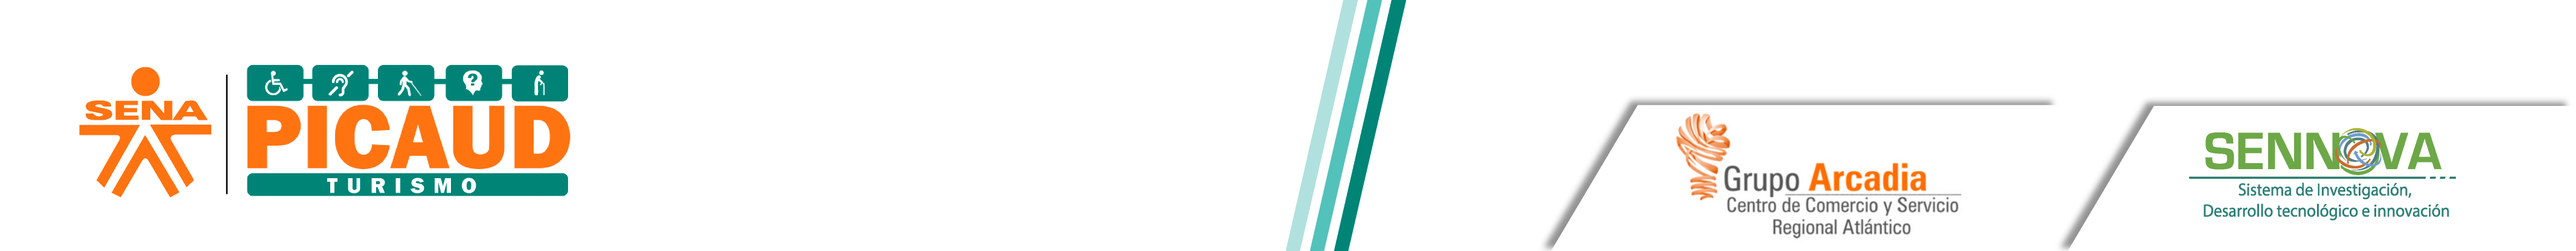
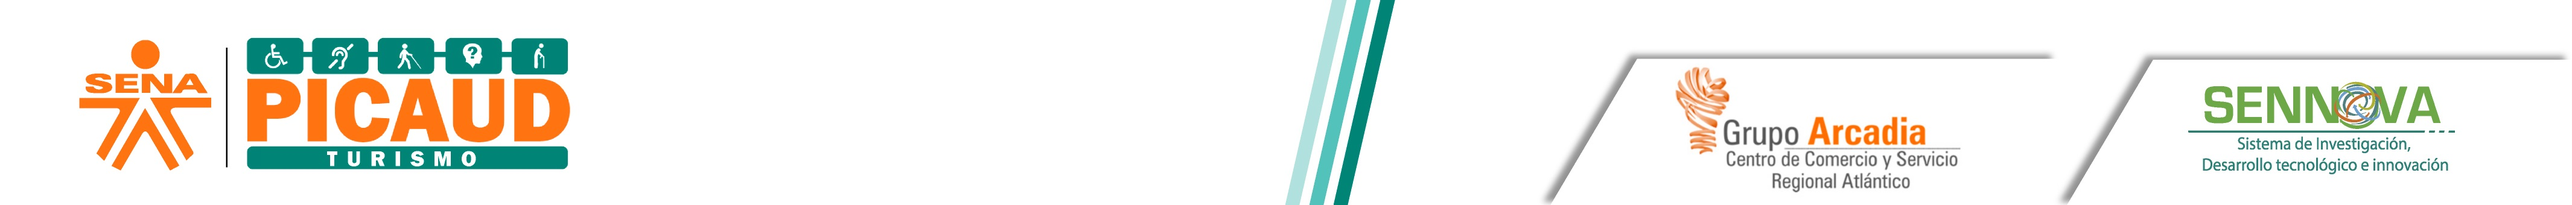
Se inicia consultas a BD

diff --git a/controller/registro.js b/controller/registro.js
@@ -1,0 +1,44 @@
+$(document).ready(function(){
+    llenar_select_tipoid();
+});
+
+function llenar_select_tipoid(){
+
+    var parametros = {
+        "opcion" : "llenar_tipoid"
+    };
+
+    $.ajax({
+        url: "../model/registro.php",
+        type: "POST",
+        data: parametros,
+        success: function(resp)
+        {
+            try {
+                var json         = eval("(" + resp + ")");
+                cargar_select("sel_tipoid", json);
+                $("#sel_tipoid").on("change", function(){
+                    console.log($("#sel_tipoid").val());
+                });
+            } catch (error) {
+                error_try(error);
+            }
+            
+            
+        }
+    });
+}
+
+function error_try(error){
+    alert("Ha ocurrido un grave error en el sistema, para mayor información verifique la consola del navegador");
+    console.error(error);
+}
+
+function cargar_select(nombre, datos){
+    var html = "<option value='0' selected>- Escoja una opción -</option>";
+    var cant_registros = datos.length;
+    for(var i=0; i<cant_registros; i++){
+        html+="<option value='"+datos[i][0]+"'>"+datos[i][1]+"</option>";
+    }   
+    $("#"+nombre).html(html);
+}

diff --git a/view/src/css/registro.css b/view/src/css/registro.css
@@ -2,9 +2,33 @@
     padding-top: 15px;
 }
 
+p{
+    font-size: 15px;
+}
 
 .btn-light{
     color: #212529;
     background-color: #eaeaea;
     border-color: #d4d4d4;
+}
+
+.form-group label{
+    margin-bottom: 5px; 
+    font-size: 15px;
+}
+
+.form-group input{
+    font-size: 15px;
+    height: 30px; 
+    line-height: 30px;
+    
+}
+
+.form-group select{
+
+    font-size: 15px;
+    height: 30px; 
+    line-height: 30px;
+    padding-top: 0px;
+    padding-bottom: 0px;
 }

diff --git a/view/src/css/menu.css b/view/src/css/menu.css
@@ -45,11 +45,12 @@ nav div li a{
 /* FOOTER */
 footer{
     height: 40px;
-    position: fixed;
+    position: inherit;
     width: 100%;  
     bottom:0;
     color: #3e3e3e;
     background: #ccc;
+    margin-bottom:0;
 }
 
 footer div p{
@@ -58,4 +59,5 @@ footer div p{
     font-weight: 600;
     line-height: 40px;
     font-size: 13px;
+    margin-bottom:0;
 }

diff --git a/view/src/css/footer.css b/view/src/css/footer.css
@@ -1,5 +1,4 @@
-.footer{
-    
+.footer{    
     width: 100%;
     height: 80px;
     background:  #fc7323;

diff --git a/view/registro.php b/view/registro.php
@@ -6,6 +6,8 @@
     <?php include "./include/head.php"; ?>
     <!-- css propoio de la pagina -->
     <link rel="stylesheet" href="./src/css/registro.css">
+    <style>
+    </style>
 </head>
 <body>
 
@@ -14,91 +16,128 @@
 
 <!-- INICIO - CONTENIDO DE LA PAGINA -->
     <div class="container">
-
-        <div class="row">
-
-  
-        <div class="card  col-12 col-md-10 offset-md-1 col-lg-8 offset-lg-2">
-
-            <!-- Inicio Formulario -->
-
-            <div class="row">
-                    <p style="text-align: center; width:100%;">Registro Usuario</p>
-                </div>
-
+        <div class="row">  
+            <div class="card  col-12 col-md-10 col-lg-12">
                 <div class="row">
-                    <!-- Small -->
-                    <div class="input-group col-md-6" >
-                        <select name="cars" class="form-control">
-                            <option selected>Cedula Ciudadania</option>
-                            <option value="volvo">Tarjeta de identidad</option>
-                            <option value="fiat">Cedula Extranjera</option>
-                        </select>
+                    <div class="col-lg-4">
+                        <h4 class="text-center" style="font-weight:600; color:#008376; margin-bottom: 50px;">Registro de usuarios</h4>
+                        <img src="./src/img/aprendices.png" alt="" width="100%" style="padding-right: 20px;">
                     </div>
-
-                    <div class="input-group col-md-6" >
-                        <div class="input-group-prepend">
-                            <span class="input-group-text"><i class="fa fa-user"></i></span>
-                        </div>
-                        <input type="text" class="form-control" placeholder="Identificación">
+                    <div class="col-lg-8" style="border-left: .5px solid #e9ecef">
+                            <div class="row">
+                                    <div class="col-12">
+                                        <p class="col-12 text-center"><b>Datos Personales</b></p>
+                                    </div>
+                                    <div class="col-md-6" >
+                                        <div class="form-group">
+                                            <label for="sel_tipoid">Tipo de identificacion: </label>
+                                            <select id="sel_tipoid" class="form-control">
+                                                <option selected>- Escoja una opción -</option>
+                                            </select>
+                                        </div>
+                                    </div>
+                
+                                    <div class="col-md-6" >
+                                        <div class="form-group">
+                                            <label for="">Numero de identificación: </label>                                
+                                            <input type="text" class="form-control" placeholder="Ingrese identificación ..." />
+                                        </div>
+                                    </div>
+                
+                                    <div class="col-md-6" >
+                                        <div class="form-group">
+                                            <label for="">Nombres: </label>                                
+                                            <input type="text" class="form-control" placeholder="Ingrese nombres ..." />
+                                        </div>
+                                    </div>
+                                    
+                                    <div class="col-md-6" >
+                                        <div class="form-group">
+                                            <label for="">Apellidos: </label>                                
+                                            <input type="text" class="form-control" placeholder="Ingrese apellidos ..." />
+                                        </div>
+                                    </div>      
+                                    
+                                    <div class="col-md-6" >
+                                        <div class="form-group">
+                                            <label for="">Sexo: </label>
+                                            <select name="cars" class="form-control">
+                                                <option selected>- Escoja una opción -</option>
+                                                <option value="volvo">Masculino</option>
+                                                <option value="fiat">Femenino</option>
+                                            </select>
+                                        </div>
+                                    </div>   
+                
+                                    <div class="col-md-6" >
+                                        <div class="form-group">
+                                            <label for="">Ciudad: </label>                                
+                                            <input type="text" class="form-control" placeholder="Ingrese teléfono ..." />
+                                        </div>
+                                    </div>
+                
+                                    <div class="col-md-6" >
+                                        <div class="form-group">
+                                            <label for="">Teléfono: </label>                                
+                                            <input type="text" class="form-control" placeholder="Ingrese teléfono ..." />
+                                        </div>
+                                    </div>
+                
+                                    <div class="col-md-6" >
+                                        <div class="form-group">
+                                            <label for="">Fecha Nacimiento: </label>                                
+                                            <input type="date" class="form-control" placeholder="Ingrese teléfono ..." />
+                                        </div>
+                                    </div>
+                
+                                </div>
+                                <hr style="margin: 10px 15px;">
+                                <div class="row">
+                                    <div class="col-12">
+                                            <p class="col-12 text-center"><b>Datos de usuario</b></p>
+                                    </div>                 
+                
+                                    <div class="col-md-6" >
+                                        <div class="form-group">
+                                            <label for="">Email: </label>                                
+                                            <input type="text" class="form-control" placeholder="Ingrese teléfono ..." />
+                                        </div>
+                                    </div>
+                
+                                    <div class="col-md-6" >
+                                        <div class="form-group">
+                                            <label for="">Verificar email: </label>                                
+                                            <input type="text" class="form-control" placeholder="Ingrese teléfono ..." />
+                                        </div>
+                                    </div>
+                
+                                    <div class="col-md-6" >
+                                        <div class="form-group">
+                                            <label for="">Contraseña: </label>                                
+                                            <input type="text" class="form-control" placeholder="Ingrese teléfono ..." />
+                                        </div>
+                                    </div>
+                
+                                    <div class="col-md-6" >
+                                        <div class="form-group">
+                                            <label for="">Verificar Contraseña: </label>                                
+                                            <input type="text" class="form-control" placeholder="Ingrese teléfono ..." />
+                                        </div>
+                                    </div>
+                                </div>
                     </div>
-
-                    <div class="input-group col-md-6" >
-                        <div class="input-group-prepend">
-                            <span class="input-group-text"><i class="fa fa-user"></i></span>
-                        </div>
-                        <input type="text" class="form-control" placeholder="Nombres">
-                    </div>
-                    
-                    <div class="input-group col-md-6">
-                        <div class="input-group-prepend">
-                            <span class="input-group-text"><i class="fa fa-user"></i></span>
-                        </div>
-                        <input type="text" class="form-control" placeholder="Apellidos">
-                    </div>
-
-                    <div class="input-group col-md-6">
-                        <div class="input-group-prepend">
-                            <span class="input-group-text"><i class="fa fa-user"></i></span>
-                        </div>
-                        <input type="text" class="form-control" placeholder="Teléfono">
-                    </div>
-                    
-                    <div class="input-group col-md-6">
-                        <div class="input-group-prepend">
-                            <span class="input-group-text"><i class="fa fa-user"></i></span>
-                        </div>
-                        <input type="number" class="form-control" placeholder="Edad">
-                    </div>
-
-                    <div class="input-group col-12">
-                        <div class="input-group-prepend">
-                            <span class="input-group-text"><i class="fa fa-at"></i></span>
-                        </div>
-                        <input type="text" class="form-control" placeholder="Correo Electronico">
-                    </div>
+              
+               
                 </div>
-
-                <div class="row">
-                    <p style="text-align:center; width:100%">
-                        <a href="" class="btn btn-sm btn-light"> <i class="fa fa-home"></i> Regresar</a>&nbsp;&nbsp;
-                        <a href="" class="btn btn-sm btn-primary"> <i class="fa fa-check"></i> Guardar</a>
-                    </p>
-                </div>
-
-
-            <!-- Fin Formulario -->
-
-        </div>
-        </div>
-    </div>  
-</div>
+            </div>
+        </div>  
+    </div>
        <!-- Footer -->
        <?php include "include/footer.php"; ?>
     <!-- Fin de footer -->
 
     <!-- FIN - CONTENIDO DE LA PAGINA -->
-
     <?php include "./include/scriptsComun.php"; ?>
+    <script src="../controller/registro.js"></script>
 </body>
 </html>

diff --git a/model/registro.php b/model/registro.php
@@ -1,0 +1,29 @@
+<?php
+    // Conexion a base de datos
+    require_once "./conexion.php";
+    $conexion = conexion();
+
+    // Recibir parametros
+    $opcion = $_POST["opcion"];
+    
+    // INICIO LLENAR TIPO ID
+    if($opcion == "llenar_tipoid"){
+        $datos = array();
+        $datos = null;
+
+        $consulta = "SELECT * FROM TIPO_DOCUMENTO ORDER BY DESCRIPCION ASC";
+        $registros = mysqli_query($conexion, $consulta);
+        while ($fila = mysqli_fetch_array($registros)) {
+            $datos[]= array(
+                0          => $fila[0],  
+                1          => $fila[1]
+            );
+            // 0: ID,    1: DESCRIPCION
+        }
+
+        $json = json_encode( $datos, JSON_UNESCAPED_UNICODE );
+        echo ( $json ) ; 
+    }
+    // FIN LLENAR TIPO ID
+
+?>

diff --git a/view/include/header.php b/view/include/header.php
@@ -1,4 +1,7 @@
-<img class="banner" src="./src/img/FOOTER-5.jpg" alt="">
+<div class="row" style="margin:0;">
+  <img class="banner" src="./src/img/FOOTER-5.jpg" alt="" style="width:90%; margin:0px auto;" onclick="location.href='./';">
+</div>
+
 <nav class="navbar navbar-expand-md bg-dark navbar-dark">
   <!-- Brand -->
   <a class="navbar-brand" href="./index.php"><i class="fa fa-home"></i></a>

diff --git a/model/conexion.php b/model/conexion.php
@@ -1,0 +1,7 @@
+<?php 
+    function conexion() {
+        $conexion = mysqli_connect("localhost", "root", "", "picaud");  
+        mysqli_set_charset($conexion,"utf8");
+        return $conexion;       
+    }
+?>
